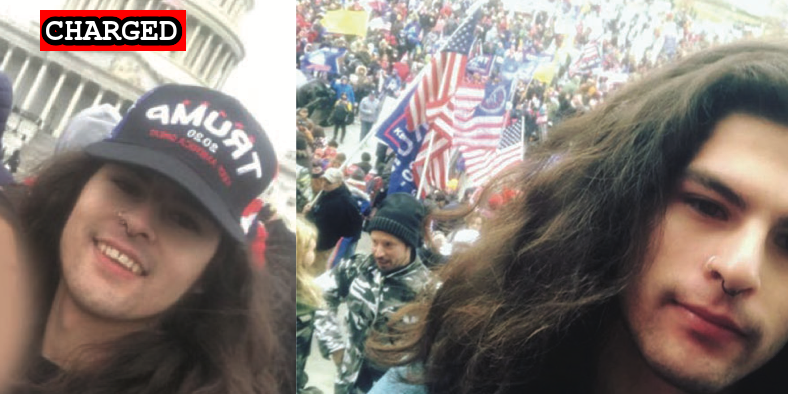
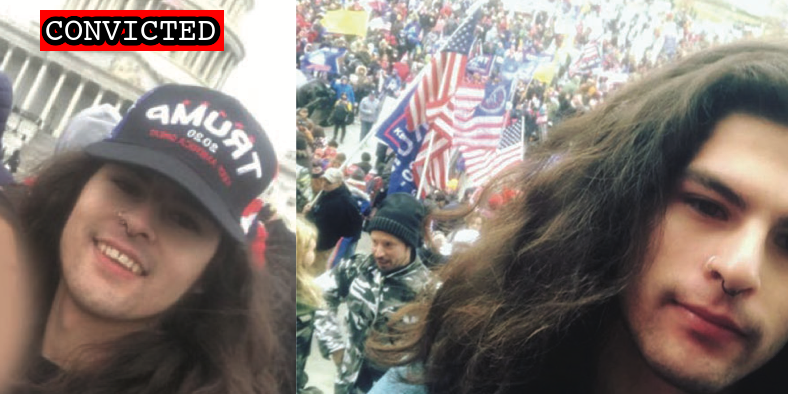
Latest import

Changed region(s): [[0.0609, 0.0, 0.3046, 0.1523]]

diff --git a/docs/_suspects/nolan-cooke.md b/docs/_suspects/nolan-cooke.md
@@ -4,15 +4,15 @@ lastName: Cooke
 hashtag: NolanCooke
 aka:
 residence: Texas
-status: Charged
+status: Convicted
 date: 2021-01-21
 charged: 2021-01-21
 indicted:
-convicted: 
-sentenced: 
-dismissed: 
+convicted: 2022-03-09
+sentenced:
+dismissed:
 deceased:
-plea_hearing:
+plea_hearing: 2022-03-09
 sentencing:
 age: 22
 occupation:
@@ -25,7 +25,7 @@ courtroom:
 courthouse:
 raid:
 perpwalk:
-quote: 'I made the news.'
+quote: "I made the news."
 title: Nolan Cooke charged on January 21st, 2021
 description: Click for latest case details. Suspects innocent until proven guilty.
 author: seditiontrack
@@ -34,8 +34,14 @@ published: true
 caseNumber: 1:21-mj-143
 videos:
 charges:
+  - code: 18 USC § 231(a)(3)
+    title: Civil Disorder
+    url: https://www.law.cornell.edu/uscode/text/18/231
+    felony: true
 sentence:
 ---
+
 - [News Report](https://lawandcrime.com/u-s-capitol-siege/texas-man-brought-his-girlfriend-with-him-to-take-on-the-revolution-at-capitol-documented-it-all-on-social-media-and-was-arrested/)
 - [Complaint](https://www.justice.gov/opa/page/file/1358231/download)
-- [Statement of Facts](https://www.justice.gov/opa/page/file/1358226/download)
+- [Statement of Facts](https://www.justice.gov/usao-dc/case-multi-defendant/file/1481761/download)
+- [Plea Agreement](https://www.justice.gov/usao-dc/case-multi-defendant/file/1481756/download)
